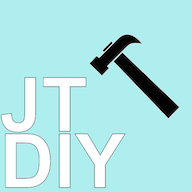
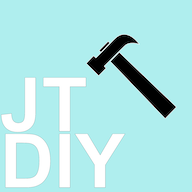
deploy: de8bc70f3a65115d4235b4ac3076b6af8295a8b2

diff --git a/flutter_service_worker.js b/flutter_service_worker.js
@@ -3,12 +3,15 @@ const MANIFEST = 'flutter-app-manifest';
 const TEMP = 'flutter-temp-cache';
 const CACHE_NAME = 'flutter-app-cache';
 const RESOURCES = {
-  "img/icon.png": "8865ceda4e404c9835c3ba28483407b1",
+  "img/justtrydiypodcasticon.png": "96965f4ccc072017513ae67c0fb0ff22",
+"img/icon.png": "96965f4ccc072017513ae67c0fb0ff22",
 "img/spotify.png": "0a5ef7a942cb1d9a64169f57ba1a05c3",
 "img/itunes.png": "48307a996f0982d85e4e7f8e6f16b730",
 "img/google.png": "0c00681e9f3551945ce6e3e6fb5f2391",
+"img/justtrydiypodcasticon.html": "c23bb95ae03d5e1295139c5491d47639",
+"img/icon.jpg": "24f17354de8abacd8213b4ad4979f2ad",
 "main.dart.js": "f05eb05c21e152163d54efcc243cc64b",
-"favicon.png": "4d44f68a327382386a052cc35b94cf4b",
+"favicon.png": "5b9fdc0b0804691c7e6235dbb075afd6",
 "feed.xml": "b23a4887909901301184416642748f9f",
 "manifest.json": "d22568609cfc8c6f061b3c01fe5b800b",
 "audio/0-preview.mp3": "8c14f1731f757f074b0ef36f93b072b2",
@@ -18,8 +21,8 @@ const RESOURCES = {
 "assets/packages/flutter_markdown/assets/logo.png": "67642a0b80f3d50277c44cde8f450e50",
 "assets/packages/cupertino_icons/assets/CupertinoIcons.ttf": "115e937bb829a890521f72d2e664b632",
 "assets/AssetManifest.json": "0d266ffbe90dae02458487c9d33b7373",
-"icons/Icon-512.png": "8865ceda4e404c9835c3ba28483407b1",
-"icons/Icon-192.png": "0d84db40931461aa4fb1850bb14b6d6d",
+"icons/Icon-512.png": "bf9d89660909416d06c5f53d0c37ef62",
+"icons/Icon-192.png": "0933487d917331277c8969bb64dcfccc",
 "index.html": "052dba01c15dc0be59bcd9538a4770ff",
 "/": "052dba01c15dc0be59bcd9538a4770ff"
 };

diff --git a/img/justtrydiypodcasticon.html b/img/justtrydiypodcasticon.html
@@ -1,0 +1,12 @@
+<svg xmlns="http://www.w3.org/2000/svg" height="1536" width="1536">
+	<style>
+		.just {font: bold 600px sans-serif;fill:white;stroke:black;text-align:}
+	</style>
+  <rect width="1536" height="1536" style="fill:paleturquoise" />
+  <g transform="translate(650,-225) scale(3)">
+<path xmlns="http://www.w3.org/2000/svg" d="M253.8281 360.5625 L223.875 391.3594 L77.4844 238.7812 L101.25 214.4531 L253.8281 360.5625 ZM154.8281 193.2188 Q146.3906 189.9844 136.8281 189.9844 Q125.0156 189.9844 118.2656 195.1875 Q116.1562 196.875 99.7031 213.0469 Q99.7031 213.0469 61.0312 251.7188 L66.2344 256.7812 L46.6875 276.8906 L13.3594 243.9844 L32.4844 223.875 Q35.2969 225.5625 38.9531 229.5 Q51.0469 218.1094 72.7031 195.4688 Q83.6719 184.0781 85.5 182.25 Q93.9375 173.9531 99.4219 170.7188 Q106.4531 166.6406 114.6094 166.6406 Q125.7188 166.6406 137.5312 175.2188 Q147.7969 182.6719 154.8281 193.2188 ZM76.0781 189.7031 L52.3125 214.4531 Q50.625 212.9062 47.6719 209.5312 L71.5781 185.2031 L76.0781 189.7031 Z" stroke="white"/>
+</g>
+  <text x="0" y="1050" class="just">JT</text>
+  <text x="0", y="1500" class="just">DIY</text>
+  Sorry, your browser does not support inline SVG.
+</svg>
